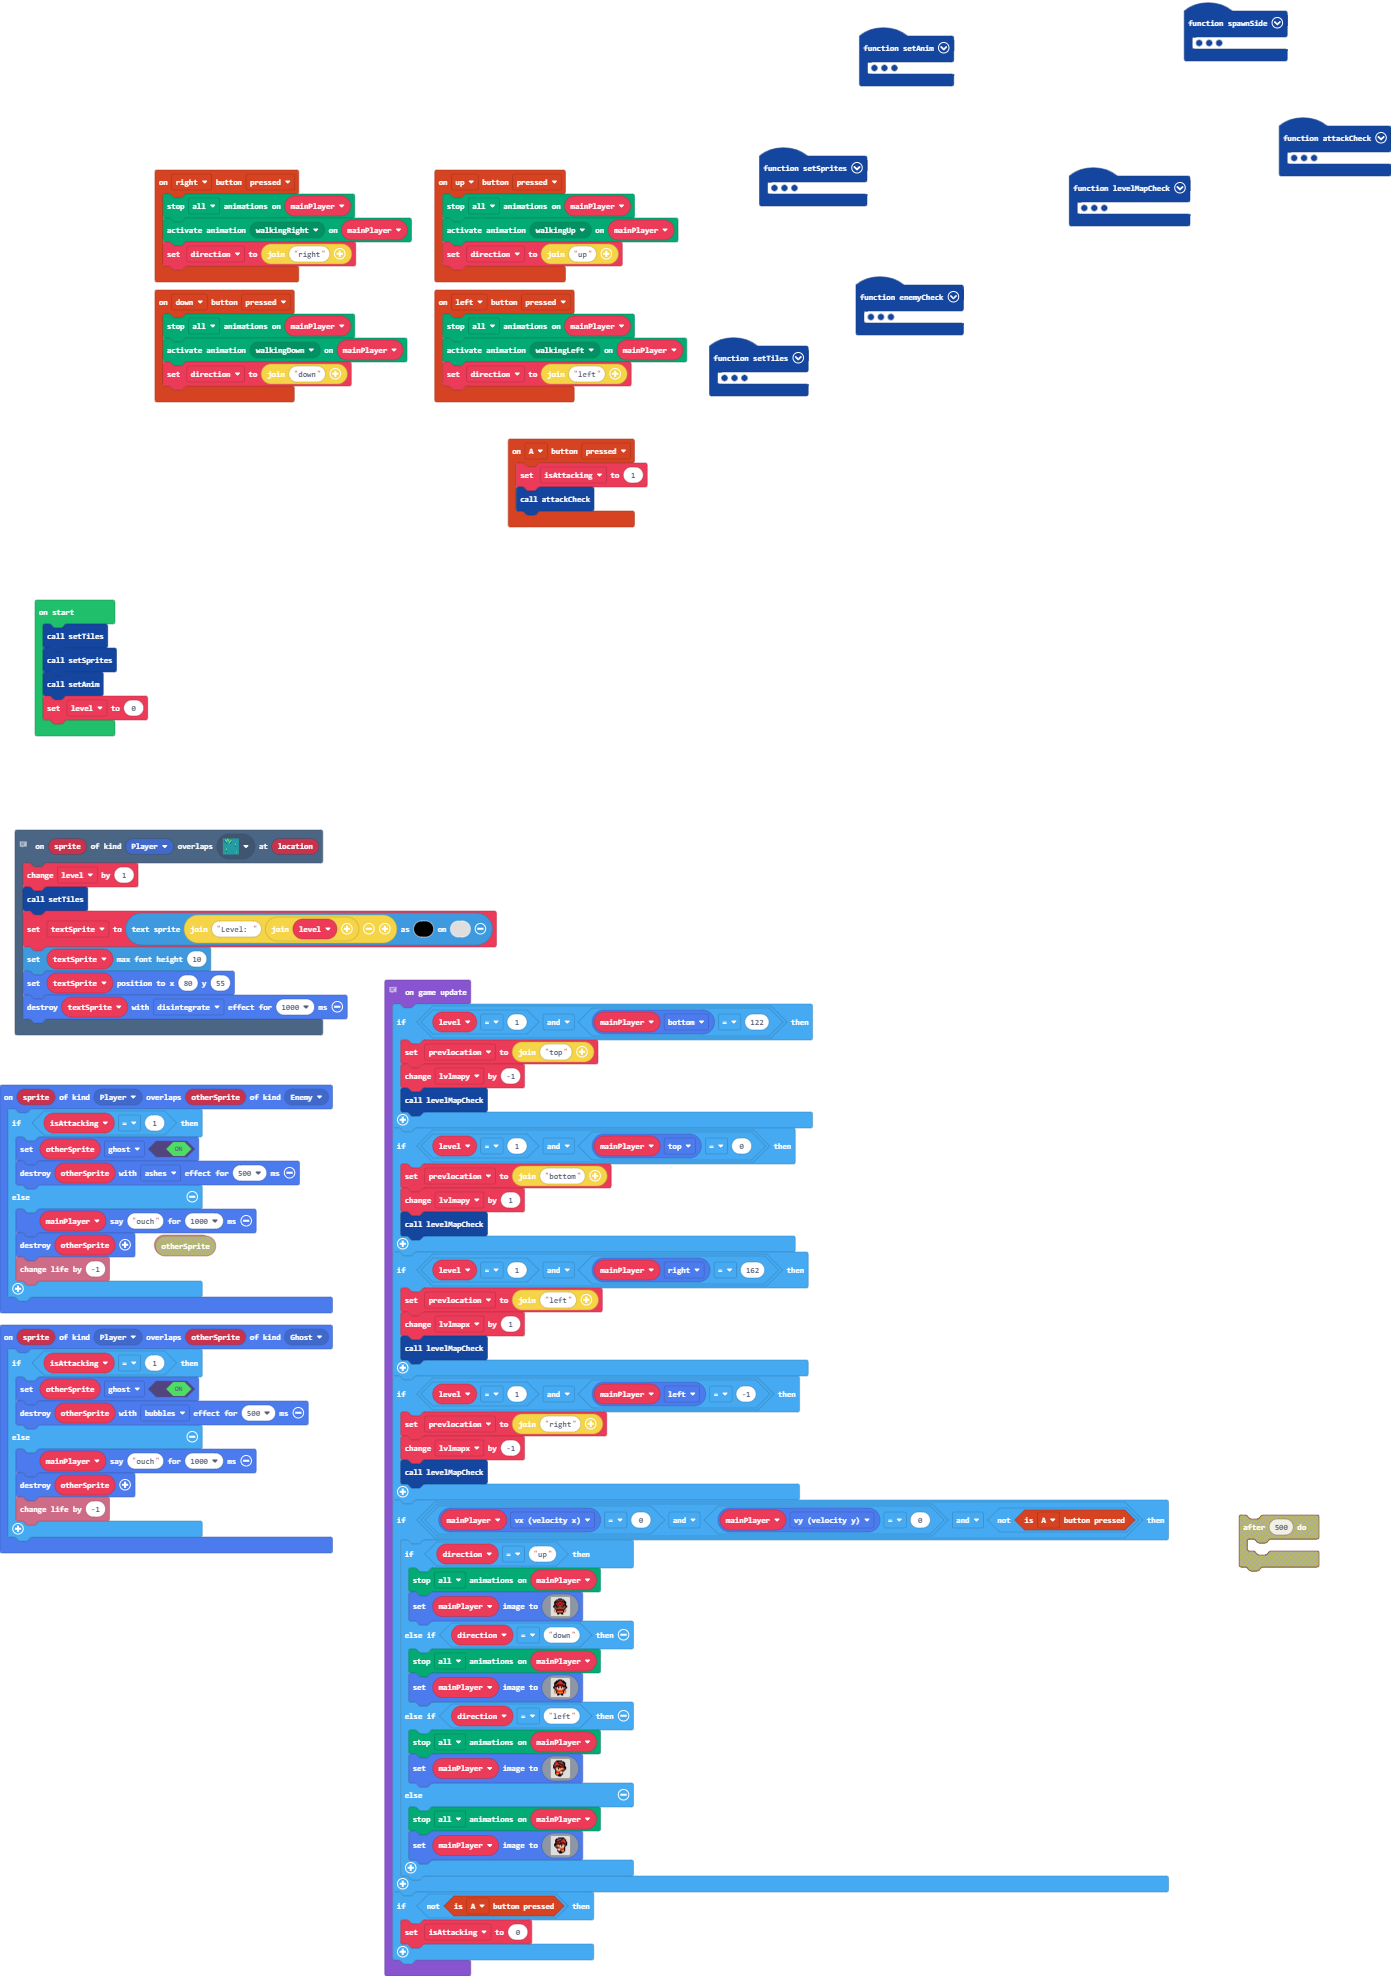
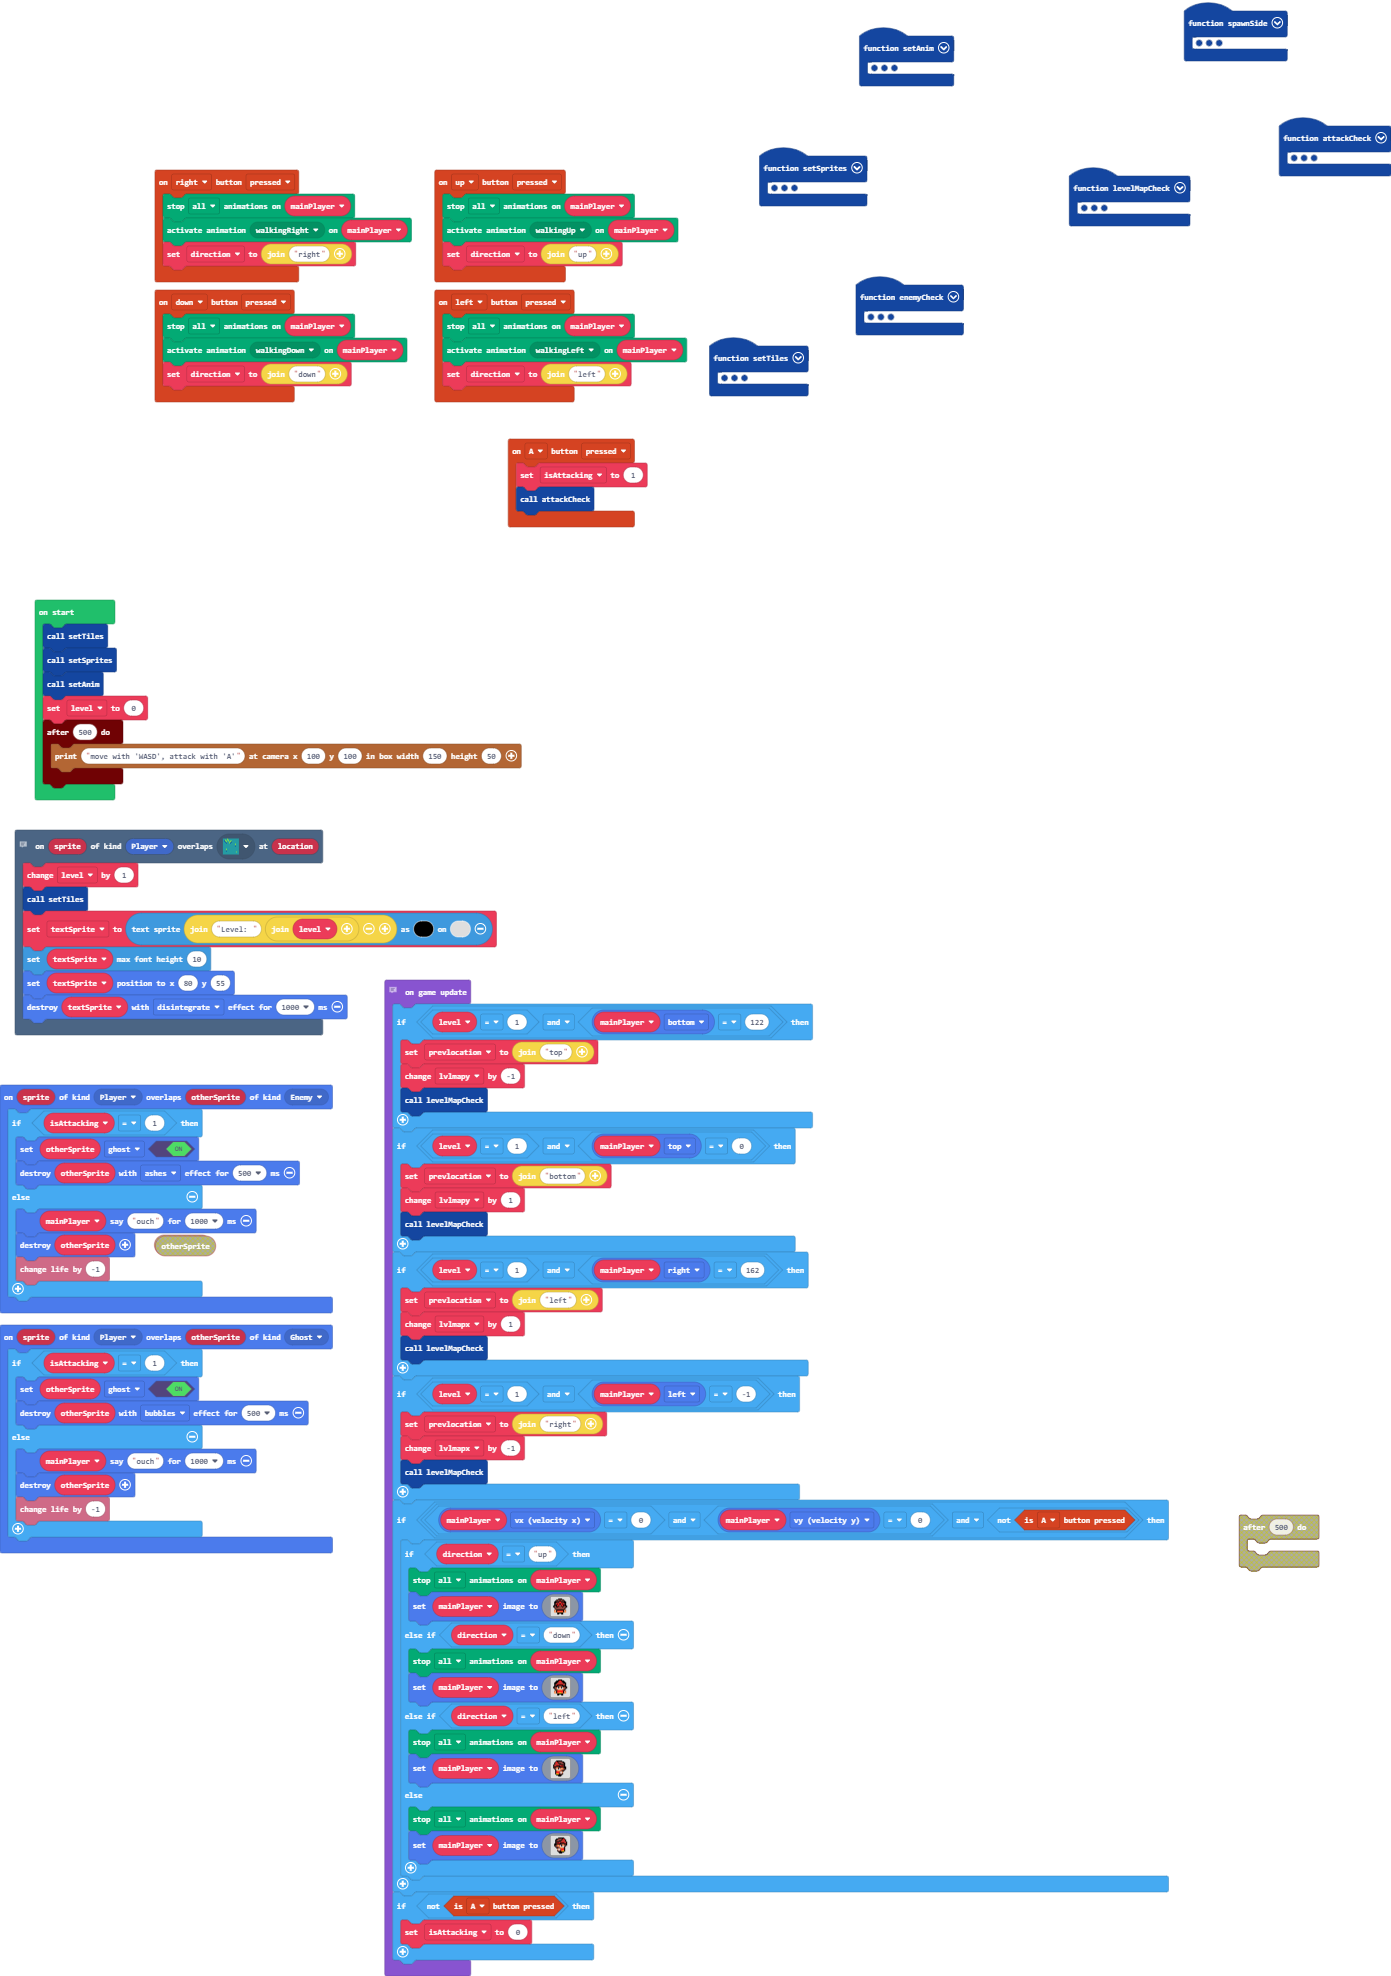
real final

Changed region(s): [[0.0, 0.3396, 0.371, 0.4322]]

diff --git a/main.ts b/main.ts
@@ -1053,6 +1053,9 @@ setTiles()
 setSprites()
 setAnim()
 level = 0
+timer.after(500, function () {
+    story.printDialog("move with 'WASD', attack with 'A'", 100, 100, 50, 150)
+})
 // tests if player is at any dungeon edge
 game.onUpdate(function () {
     if (level == 1 && mainPlayer.bottom == 122) {
